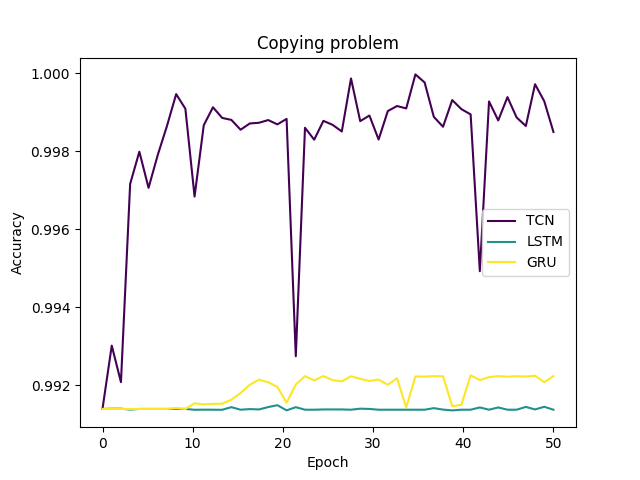
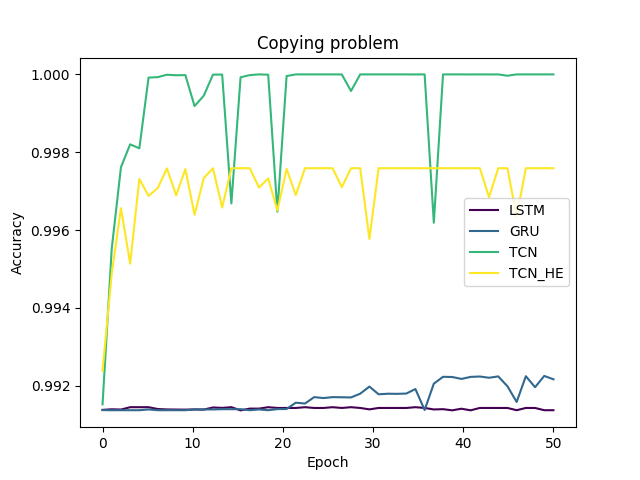
Re-evaluate TCN memory example

diff --git a/examples/tcn/copy_memory/model.py b/examples/tcn/copy_memory/model.py
@@ -27,9 +27,7 @@ class CopyModel(keras.Model):
             sequence = TemporalConvNet(
                 filters=filters, kernel_size=kernel_size, dropout=dropout, kernel_initializer='he_uniform')
 
-        predict = keras.layers.TimeDistributed(
-            keras.layers.Dense(10, activation='softmax')  # Digits 0 - 9
-        )
+        predict = keras.layers.Dense(10, activation='softmax')  # Digits 0 - 9
 
         outputs = sequence(inputs)
         outputs = predict(outputs)

diff --git a/examples/tcn/copy_memory/copy_test.py b/examples/tcn/copy_memory/copy_test.py
@@ -58,8 +58,8 @@ if __name__ == "__main__":
             metrics=['accuracy']
         )
         model.summary()
-        histories[core] = model.fit_generator(
-            generator=train_dataset,
+        histories[core] = model.fit(
+            train_dataset,
             epochs=argv.epochs,
             validation_data=test_dataset,
         ).history
